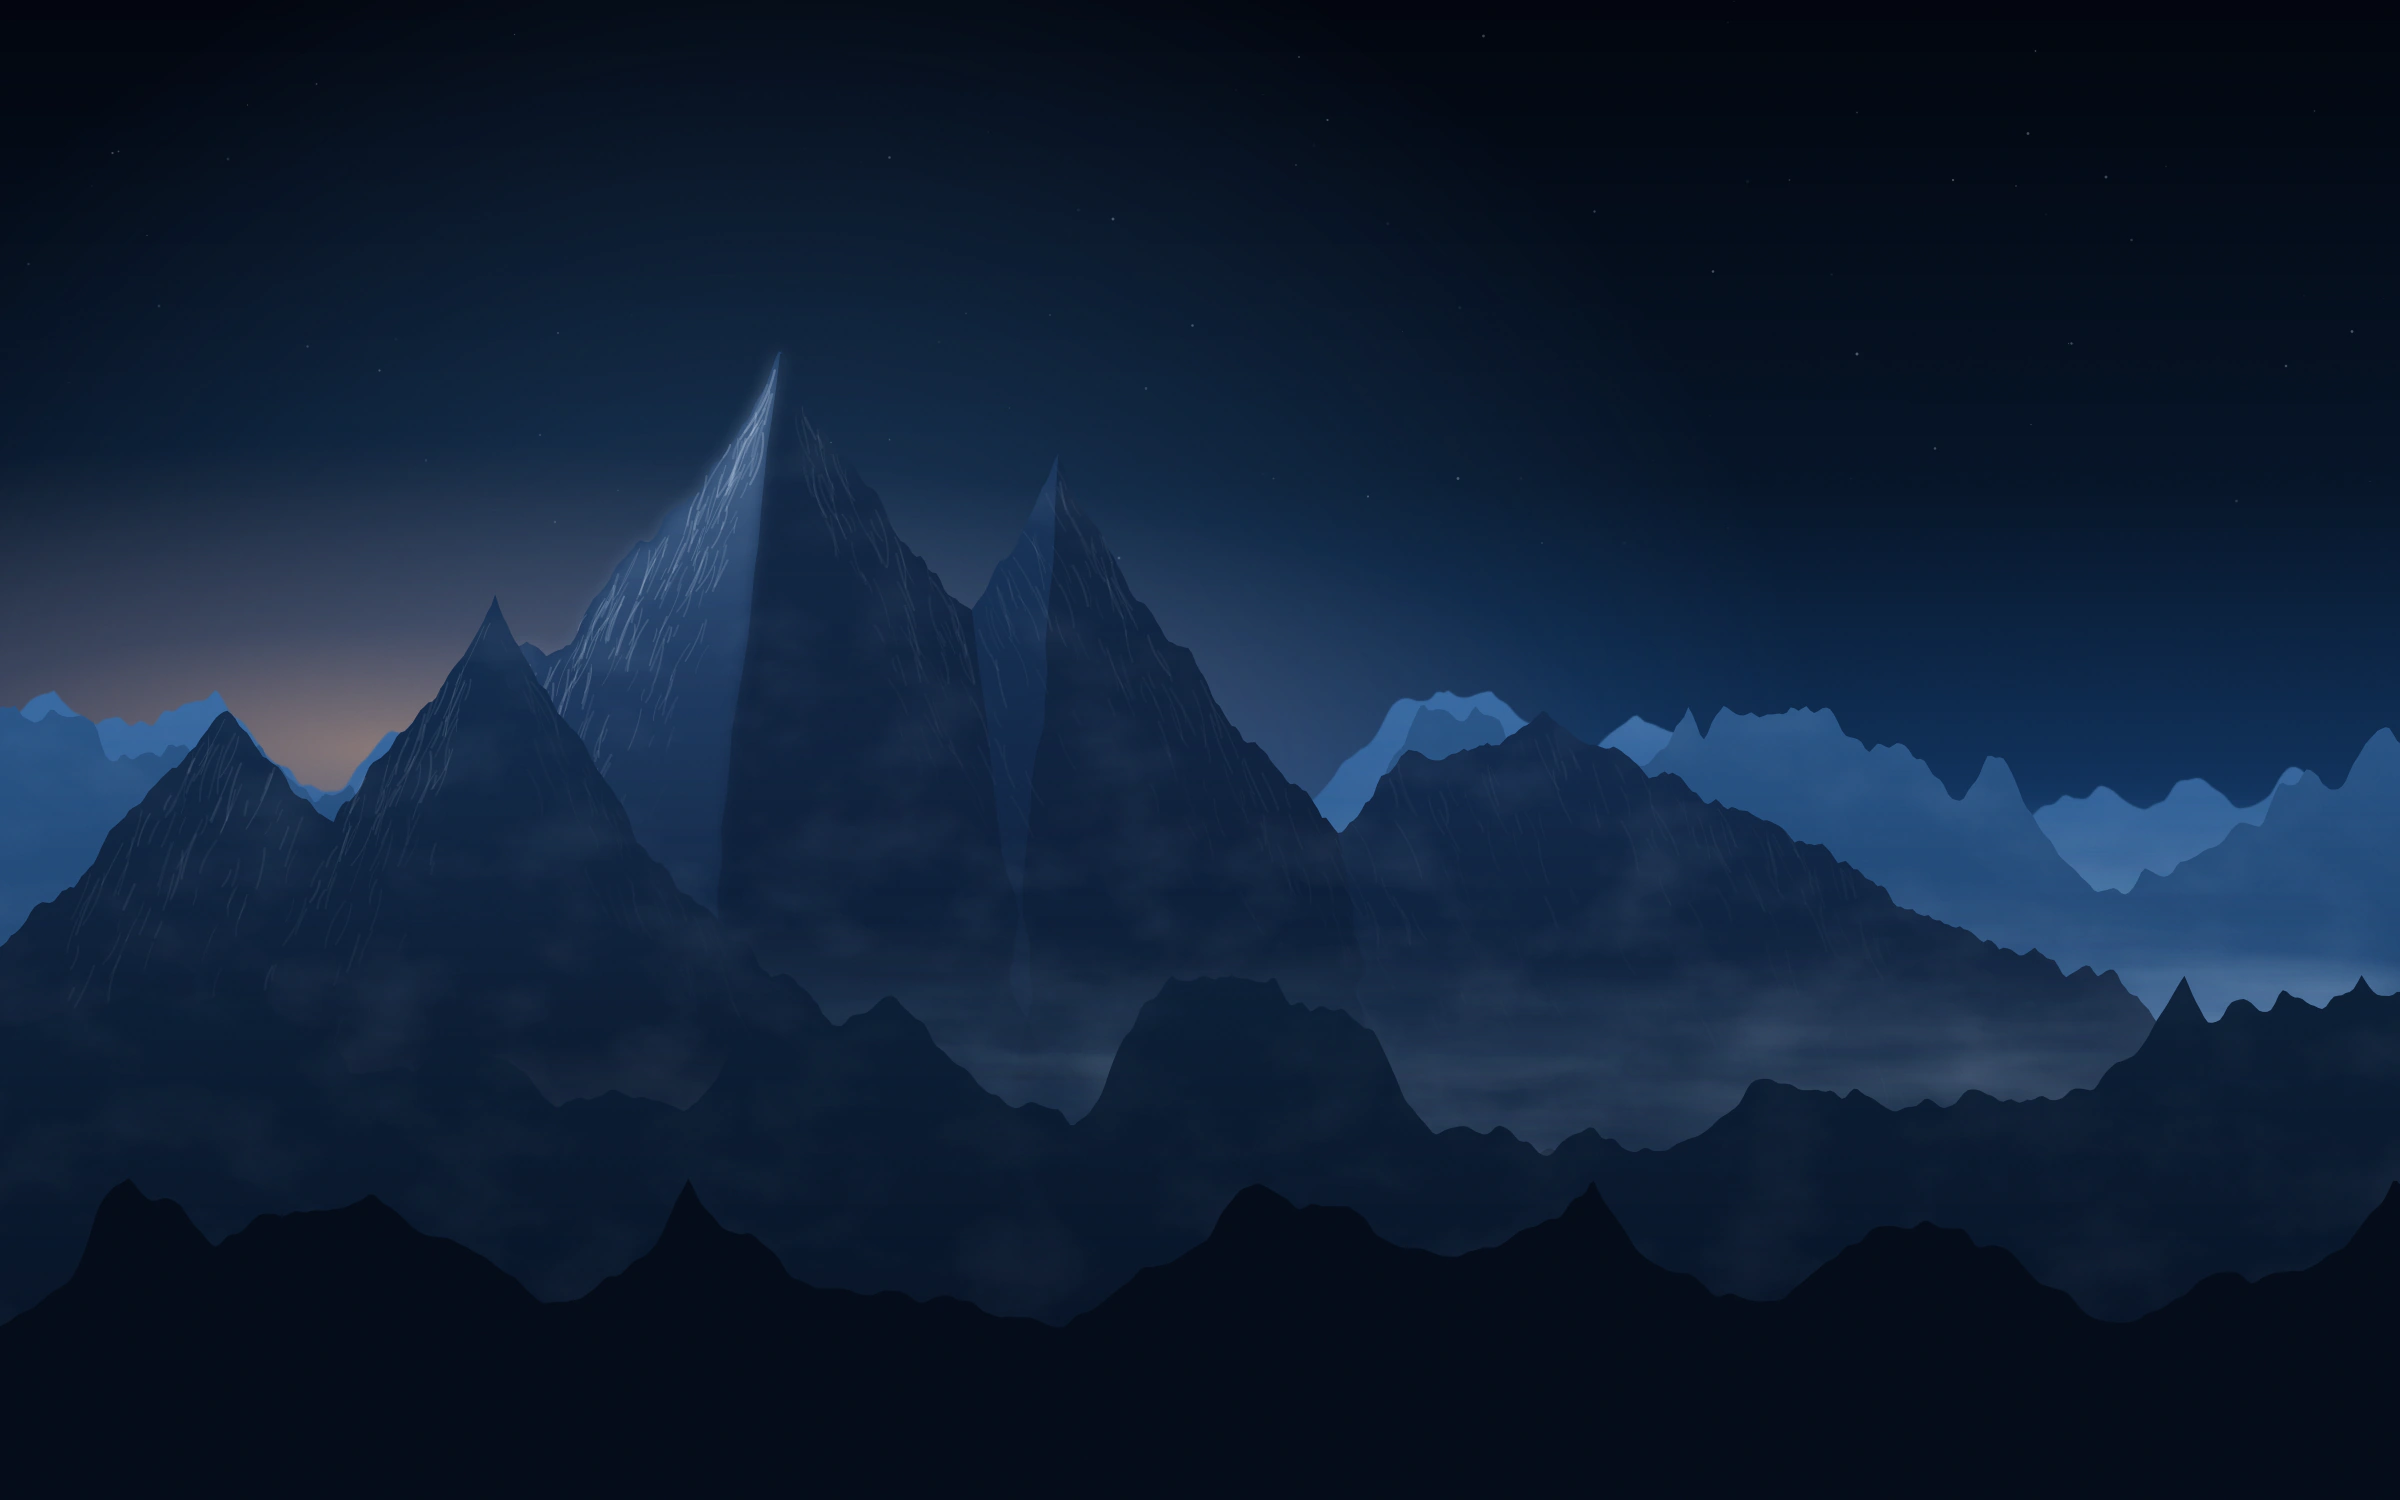
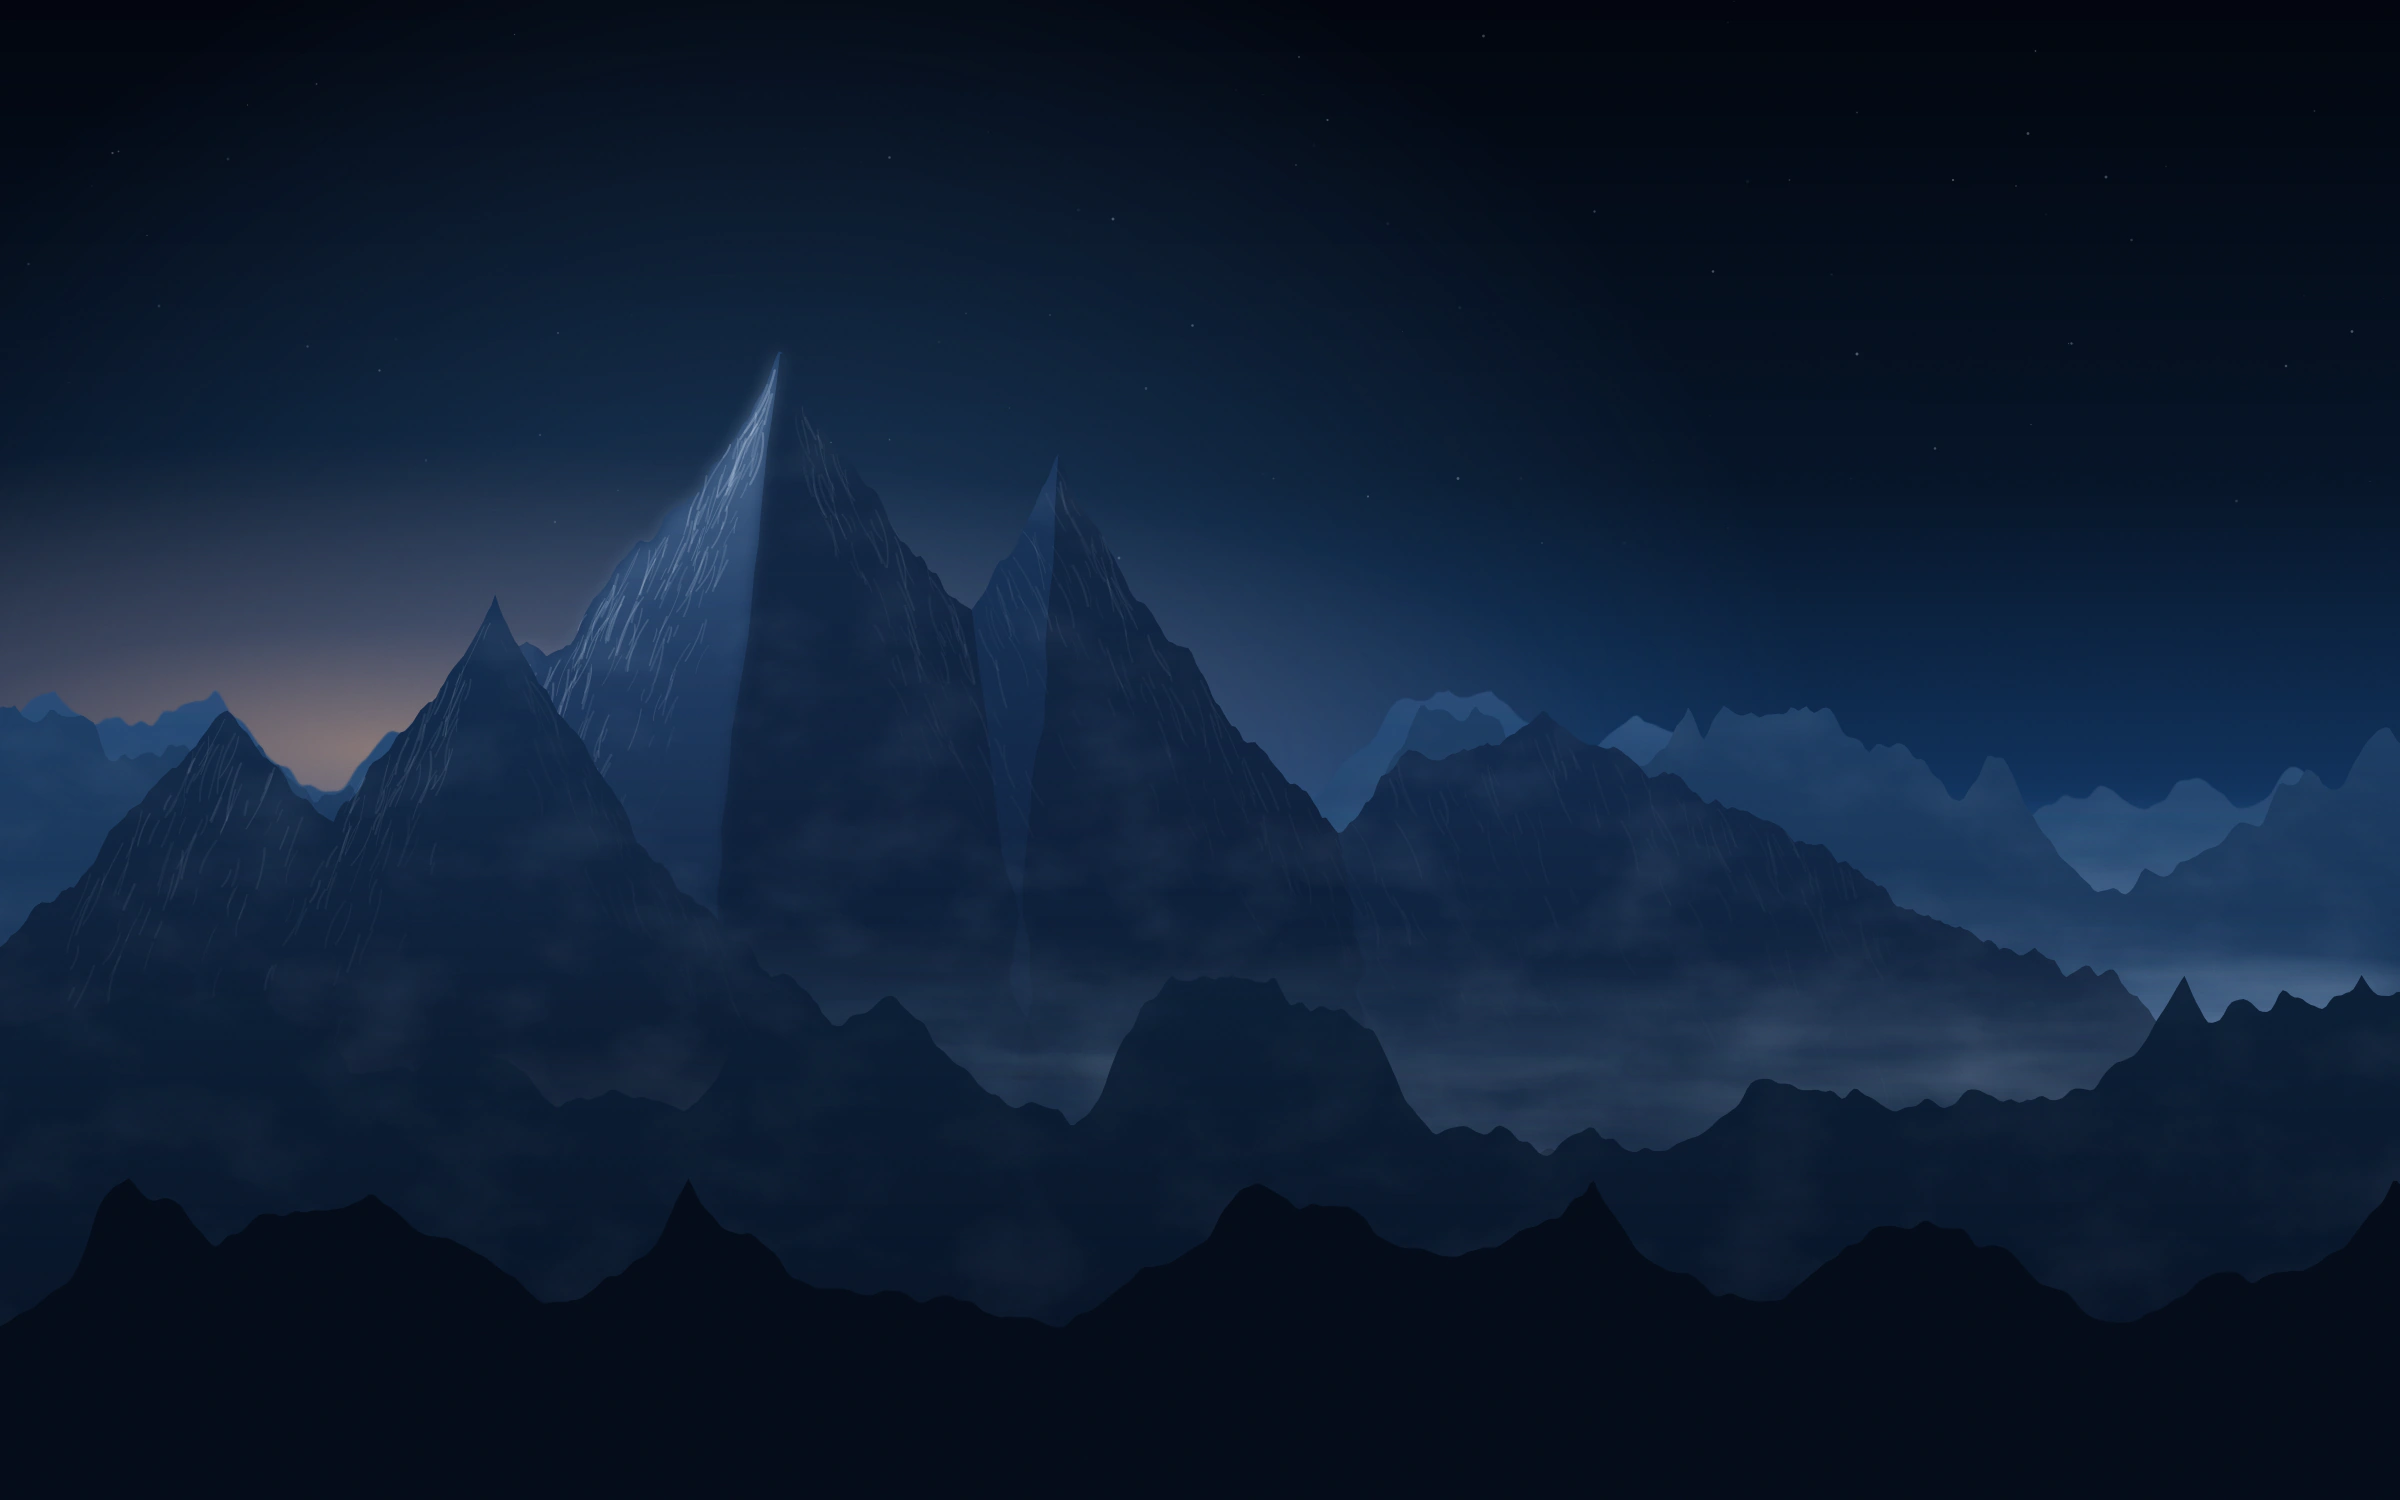
Agreement page: a turning Milky Way, a darker edge, the tag as a bubble over the peak
- The Milky Way (star clouds, a warm core, patchy dust, thousands of
  stars; its own image) and the twinkling stars turn slowly across the sky,
  kept to the sky's shape by a mask so they never cross a mountain
- The far ranges are darker and a vignette pulls everything away from the
  peak into shadow, so the eye goes to the form
- The tag is a speech bubble whose tail rests on the summit, no separate
  arrow; it floats, and every few seconds hops and wiggles for attention
  (paused while pointed at)

Changed region(s): [[0.5312, 0.46, 1.0, 0.644], [0.0, 0.46, 0.0938, 0.644], [0.125, 0.5213, 0.1562, 0.552]]

diff --git a/web/src/app/start/Shell.tsx b/web/src/app/start/Shell.tsx
@@ -1,6 +1,6 @@
 import Image from "next/image";
 import { FileText, Flag, PenLine, UserRound, type LucideIcon } from "lucide-react";
-import { SCENE, SUMMIT, SUMMIT_RIDGE } from "./everestRidge";
+import { GALAXY, SCENE, SUMMIT, SUMMIT_RIDGE } from "./everestRidge";
 
 // The frame every /start page sits in, over Everest at blue hour: the
 // mountain fills the screen (the goal we help clients reach: the top), with
@@ -102,16 +102,15 @@ const FRAME_MASK: React.CSSProperties = {
   WebkitMaskComposite: "xor",
 };
 
-// Stars in the open sky only: above everything, and lower down only clear
-// of Everest and Lhotse (x, y, radius, when and how fast each twinkles)
+// Stars across the sky (x, y, radius, when and how fast each twinkles); the
+// sky's own shape keeps them off the mountains as the sky turns
 const STARS: [number, number, number, number, number][] = (() => {
   let seed = 7;
   const r = () => ((seed = (seed * 16807) % 2147483647) - 1) / 2147483646;
   const out: [number, number, number, number, number][] = [];
   while (out.length < 70) {
     const x = r() * 1600;
-    const y = r() * 430;
-    if (x > 180 && x < 1120 && y > 210) continue;
+    const y = r() * 520;
     out.push([Math.round(x), Math.round(y), 0.5 + r() * 0.9, Math.round(r() * 60) / 10, 3 + Math.round(r() * 40) / 10]);
   }
   return out;
@@ -145,6 +144,14 @@ function Scene({ name }: { name?: string | null }) {
             <animate attributeName="opacity" dur="12s" begin="2s" repeatCount="indefinite" values="0;1;1;0;0" keyTimes="0;0.1;0.45;0.55;1" />
           </circle>
         </mask>
+        <mask id="sc-sky" maskUnits="userSpaceOnUse" x="0" y="0" width={width} height={height}>
+          <image href="/start/everest-sky.png" width={width} height={height} preserveAspectRatio="none" />
+        </mask>
+        <radialGradient id="sc-vignette" cx={SUMMIT.x + 60} cy="380" r="1050" gradientUnits="userSpaceOnUse">
+          <stop offset="0.3" stopColor="#000" stopOpacity="0" />
+          <stop offset="0.7" stopColor="#000" stopOpacity="0.55" />
+          <stop offset="1" stopColor="#000" stopOpacity="0.85" />
+        </radialGradient>
         <linearGradient id="sc-foot" x1="0" y1="0" x2="0" y2="1">
           <stop offset="0.55" stopColor="#000" stopOpacity="0" />
           <stop offset="1" stopColor="#000" stopOpacity="0.85" />
@@ -160,36 +167,49 @@ function Scene({ name }: { name?: string | null }) {
         </radialGradient>
       </defs>
       <image href="/start/everest.webp" width={width} height={height} />
-      <g className="ev-drift" fill="#e8f0ff">
-        {STARS.map(([x, y, r, d, t], i) => (
-          <circle key={i} cx={x} cy={y} r={r} className="ev-star" style={{ animationDelay: `${d}s`, animationDuration: `${t}s` }} />
-        ))}
+      {/* the night sky, turning slowly: the Milky Way and the stars, kept
+          to the sky's own shape so nothing ever crosses a mountain */}
+      <g mask="url(#sc-sky)">
+        <g className="ev-sky">
+          <image
+            href="/start/everest-galaxy.webp"
+            x={(width - GALAXY.width) / 2}
+            // raised so the band arcs through the open sky over the peak
+            y={(height - GALAXY.height) / 2 - 430}
+            width={GALAXY.width}
+            height={GALAXY.height}
+            opacity="0.85"
+            style={{ mixBlendMode: "screen" }}
+          />
+          <g fill="#e8f0ff">
+            {STARS.map(([x, y, r, d, t], i) => (
+              <circle key={i} cx={x} cy={y} r={r} className="ev-star" style={{ animationDelay: `${d}s`, animationDuration: `${t}s` }} />
+            ))}
+          </g>
+        </g>
+        <line x1="1240" y1="70" x2="1180" y2="92" stroke="url(#sc-meteor)" strokeWidth="1.2" strokeLinecap="round" className="ev-meteor" />
       </g>
-      <line x1="1240" y1="70" x2="1180" y2="92" stroke="url(#sc-meteor)" strokeWidth="1.2" strokeLinecap="round" className="ev-meteor" />
-      {/* the foot of the picture sinks into black */}
+      {/* the foot of the picture sinks into black, and everything away
+          from the peak falls into shadow, so the eye goes to the form */}
       <rect width={width} height={height} fill="url(#sc-foot)" />
+      <rect width={width} height={height} fill="url(#sc-vignette)" />
       <path d={SUMMIT_RIDGE} fill="none" stroke="#eef5ff" strokeWidth="0.9" strokeLinejoin="round" mask="url(#sc-glint)" className="ev-glint" />
       {label && (
         // the client's name at the top: a tag with a dip at the foot, and from
         // it a fine arrow down onto the summit, in a soft halo
         <g transform={`translate(${SUMMIT.x} ${SUMMIT.y})`}>
           <ellipse cx="0" cy="-50" rx="120" ry="60" fill="url(#sc-halo)" className="ev-halo" />
-          <g className="ev-arrow">
-            <line x1="0" y1="-34" x2="0" y2="-5" stroke="#dcebff" strokeOpacity="0.75" strokeWidth="0.8" />
-            <path d="M-3 -9 L0 -4.5 L3 -9" fill="none" stroke="#dcebff" strokeOpacity="0.85" strokeWidth="0.8" strokeLinecap="round" strokeLinejoin="round" />
-          </g>
-          <foreignObject x="-210" y="-160" width="420" height="119">
-            {/* the tag at the foot; hovering it brings up a line for them above */}
-            <div className="flex h-full flex-col-reverse items-center">
-              {/* made like the Nyra button: the moving light on the wrapper,
-                  a solid pill inside it */}
+          <foreignObject x="-210" y="-121" width="420" height="119">
+            {/* a speech bubble floating over the peak, its tail resting on the
+                top; it pops now and then for attention, and hovering it brings
+                up a line above */}
+            <div className="ev-bob flex h-full flex-col-reverse items-center pb-[9px]">
               <span className="ev-tag nyra-glow peer pointer-events-auto relative">
                 <span className="relative flex cursor-default items-center gap-2 rounded-full bg-surface-2 px-3.5 py-2 text-[14px] whitespace-nowrap text-foreground shadow-xl">
                   <Flag size={14} className="shrink-0 text-accent" />
                   Hey {label}, we want you here
-                  {/* the dip: the tag's foot, pointing down */}
-                  <span className="absolute -bottom-[4px] left-1/2 size-2.5 -translate-x-1/2 rotate-45 bg-surface-2" />
                 </span>
+                <span className="absolute top-full left-1/2 -translate-x-1/2 border-x-[7px] border-t-[9px] border-x-transparent border-t-surface-2" />
               </span>
               <p className="mb-2.5 max-w-[250px] translate-y-1 rounded-xl border border-white/15 bg-[#0a1322]/85 px-3 py-2 text-center text-[12px] leading-snug text-white/85 opacity-0 shadow-[0_8px_30px_rgba(0,0,0,0.4)] backdrop-blur-md transition-[opacity,translate] duration-300 ease-out peer-hover:translate-y-0 peer-hover:opacity-100">
                 {SUMMIT_NOTE}

diff --git a/web/src/app/globals.css b/web/src/app/globals.css
@@ -691,11 +691,17 @@ dialog[open]::backdrop {
     opacity: 1;
   }
 }
-/* the name tag pops up at the summit as the page opens, with a little
-   spring, and then its arrow drops onto the peak */
+/* the tag at the summit pops up as the page opens, then floats, and every
+   few seconds gives a little hop and wiggle for attention (paused while
+   it's pointed at) */
 .ev-tag {
   transform-origin: 50% 100%;
-  animation: ev-tag-pop 0.7s cubic-bezier(0.34, 1.56, 0.64, 1) 0.5s both;
+  animation:
+    ev-tag-pop 0.7s cubic-bezier(0.34, 1.56, 0.64, 1) 0.5s both,
+    ev-nudge 5.5s ease-in-out 2.5s infinite;
+}
+.ev-tag:hover {
+  animation-play-state: paused;
 }
 @keyframes ev-tag-pop {
   from {
@@ -707,21 +713,36 @@ dialog[open]::backdrop {
     transform: none;
   }
 }
-.ev-arrow {
-  animation: ev-arrow-drop 0.5s cubic-bezier(0.22, 1, 0.36, 1) 1s both;
-}
-@keyframes ev-arrow-drop {
-  from {
-    opacity: 0;
-    transform: translateY(-6px);
+@keyframes ev-nudge {
+  0%,
+  72%,
+  100% {
+    transform: none;
   }
-  to {
-    opacity: 1;
+  76% {
+    transform: translateY(-4px) scale(1.06) rotate(-2deg);
+  }
+  80% {
+    transform: scale(0.98) rotate(2deg);
+  }
+  84% {
+    transform: scale(1.02) rotate(-1deg);
+  }
+  88% {
     transform: none;
   }
 }
-/* the stars twinkle, each on its own clock, and the whole sky drifts a
-   few pixels over a minute; now and then one falls */
+.ev-bob {
+  animation: ev-bob 3.2s ease-in-out infinite alternate;
+}
+@keyframes ev-bob {
+  to {
+    transform: translateY(-3px);
+  }
+}
+/* the stars twinkle, each on its own clock, and the whole sky turns a few
+   degrees about a point far off to the top right, over a minute and a half;
+   now and then one falls */
 .ev-star {
   opacity: 0.5;
   animation: ev-twinkle 4s ease-in-out infinite alternate;
@@ -731,12 +752,17 @@ dialog[open]::backdrop {
     opacity: 0.1;
   }
 }
-.ev-drift {
-  animation: ev-drift 60s ease-in-out infinite alternate;
+.ev-sky {
+  transform-box: view-box;
+  transform-origin: 1500px -700px;
+  animation: ev-sky 90s ease-in-out infinite alternate;
 }
-@keyframes ev-drift {
+@keyframes ev-sky {
+  from {
+    transform: rotate(-3deg);
+  }
   to {
-    transform: translate(-18px, 4px);
+    transform: rotate(3deg);
   }
 }
 .ev-meteor {
@@ -763,9 +789,9 @@ dialog[open]::backdrop {
 @media (prefers-reduced-motion: reduce) {
   .ev-halo,
   .ev-tag,
-  .ev-arrow,
+  .ev-bob,
   .ev-star,
-  .ev-drift {
+  .ev-sky {
     animation: none;
   }
   .ev-meteor {

diff --git a/web/src/app/start/everestRidge.ts b/web/src/app/start/everestRidge.ts
@@ -3,3 +3,5 @@
 export const SCENE = { width: 1600, height: 1000 };
 export const SUMMIT = { x: 519.1, y: 234.2 };
 export const SUMMIT_RIDGE = "M338.0 439.7 L340.6 436.9 L343.3 434.6 L345.9 430.8 L348.5 429.6 L351.1 427.7 L353.8 429.6 L356.4 430.5 L359.0 432.2 L361.6 434.5 L364.3 437.6 L366.9 436.0 L369.5 434.6 L372.1 433.5 L374.8 432.8 L377.4 430.3 L380.0 430.0 L382.6 426.6 L385.3 421.5 L387.9 413.8 L390.5 408.1 L393.1 403.7 L395.8 399.0 L398.4 396.6 L401.0 393.9 L403.6 390.8 L406.3 386.6 L408.9 381.2 L411.5 376.8 L414.1 374.0 L416.7 371.7 L419.4 368.5 L422.0 365.9 L424.6 361.8 L427.3 360.1 L429.9 361.3 L432.5 361.5 L435.1 359.5 L437.8 356.4 L440.4 351.0 L443.0 344.8 L445.6 342.4 L448.3 339.6 L450.9 338.0 L453.5 336.8 L456.1 335.9 L458.8 332.6 L461.4 331.2 L464.0 330.6 L466.6 326.4 L469.2 322.4 L471.9 317.7 L474.5 310.7 L477.1 308.2 L479.8 307.2 L482.4 304.0 L485.0 299.4 L487.6 295.3 L490.3 291.9 L492.9 287.2 L495.5 282.5 L498.1 280.3 L500.8 275.6 L503.4 269.3 L506.0 265.0 L508.6 261.2 L511.3 255.1 L513.9 248.0 L516.5 240.4 L519.1 234.2 L521.8 235.3 L524.4 242.0 L527.0 251.3 L529.6 256.6 L532.3 260.8 L534.9 264.8 L537.5 270.5 L540.1 275.1 L542.8 280.4 L545.4 282.2 L548.0 285.0 L550.6 288.9 L553.3 294.9 L555.9 298.0 L558.5 301.8 L561.1 303.6 L563.8 305.7 L566.4 306.5 L569.0 309.8 L571.6 314.7 L574.3 319.7 L576.9 323.3 L579.5 324.8 L582.1 326.0 L584.8 329.1 L587.4 333.8 L590.0 340.1 L592.6 347.3 L595.3 352.9 L597.9 356.9 L600.5 360.7 L603.1 362.0 L605.8 364.8 L608.4 369.0 L611.0 371.4 L613.6 370.5 L616.3 373.8 L618.9 379.6 L621.5 381.7 L624.1 382.0 L626.8 386.5 L629.4 393.0 L632.0 396.4 L634.6 398.1 L637.3 399.1 L639.9 401.9 L642.5 403.4 L645.1 404.9 L647.8 406.6 L650.4 402.8 L653.0 399.1 L655.6 396.0 L658.3 391.1 L660.9 385.1 L663.5 378.8 L666.1 374.4 L668.8 373.4 L671.4 372.1 L674.0 368.9 L676.6 365.1 L679.3 359.4 L681.9 353.2 L684.5 347.6 L687.1 343.0 L689.8 337.1 L692.4 330.8 L695.0 324.7 L697.6 321.2 L700.3 315.0 L702.9 307.1";
+// public/start/everest-galaxy.webp, drawn larger than the picture and centred on it
+export const GALAXY = { width: 2400, height: 1600 };
